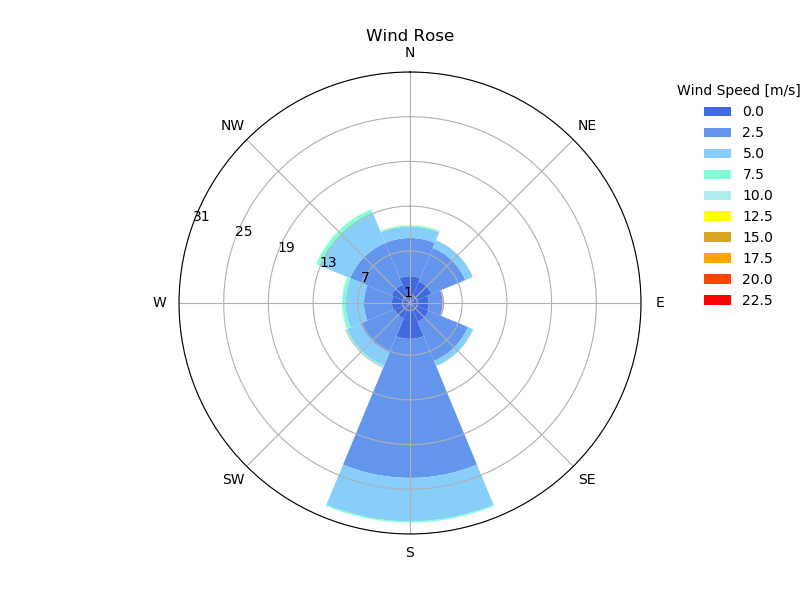
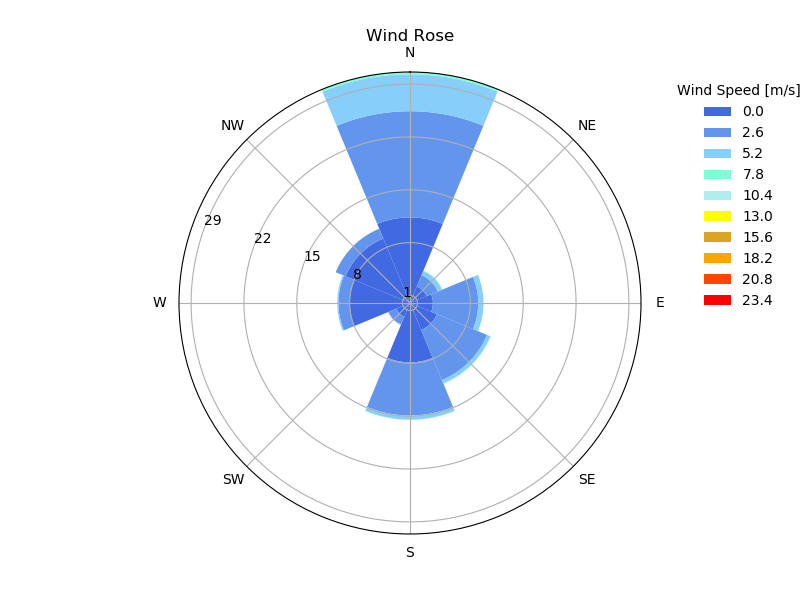
Finished Web App

diff --git a/ladybugvizzz/ladybugvizzzapp/vizzz/static/googleMap.html b/ladybugvizzz/ladybugvizzzapp/vizzz/static/googleMap.html
@@ -6,7 +6,7 @@
 <script type="text/javascript" src="https://maps.googleapis.com/maps/api/js?libraries=visualization&sensor=true_or_false"></script>
 <script type="text/javascript">
 	function initialize() {
-		var centerlatlng = new google.maps.LatLng(43.106496, -73.599382);
+		var centerlatlng = new google.maps.LatLng(1.290475, 103.852036);
 		var myOptions = {
 			zoom: 9,
 			center: centerlatlng,
@@ -15,42 +15,42 @@
 		var map = new google.maps.Map(document.getElementById("map_canvas"), myOptions);
 
 var coords = [
-new google.maps.LatLng(43.133443, -73.599382),
-new google.maps.LatLng(43.133033, -73.605794),
-new google.maps.LatLng(43.131817, -73.612011),
-new google.maps.LatLng(43.129831, -73.617844),
-new google.maps.LatLng(43.127136, -73.623115),
-new google.maps.LatLng(43.123814, -73.627664),
-new google.maps.LatLng(43.119965, -73.631353),
-new google.maps.LatLng(43.115707, -73.634070),
-new google.maps.LatLng(43.111170, -73.635733),
-new google.maps.LatLng(43.106490, -73.636291),
-new google.maps.LatLng(43.101811, -73.635728),
-new google.maps.LatLng(43.097275, -73.634060),
-new google.maps.LatLng(43.093019, -73.631339),
-new google.maps.LatLng(43.089172, -73.627648),
-new google.maps.LatLng(43.085852, -73.623099),
-new google.maps.LatLng(43.083158, -73.617830),
-new google.maps.LatLng(43.081174, -73.612001),
-new google.maps.LatLng(43.079959, -73.605789),
-new google.maps.LatLng(43.079550, -73.599382),
-new google.maps.LatLng(43.079959, -73.592976),
-new google.maps.LatLng(43.081174, -73.586764),
-new google.maps.LatLng(43.083158, -73.580935),
-new google.maps.LatLng(43.085852, -73.575666),
-new google.maps.LatLng(43.089172, -73.571116),
-new google.maps.LatLng(43.093019, -73.567425),
-new google.maps.LatLng(43.097275, -73.564704),
-new google.maps.LatLng(43.101811, -73.563037),
-new google.maps.LatLng(43.106490, -73.562473),
-new google.maps.LatLng(43.111170, -73.563031),
-new google.maps.LatLng(43.115707, -73.564694),
-new google.maps.LatLng(43.119965, -73.567411),
-new google.maps.LatLng(43.123814, -73.571100),
-new google.maps.LatLng(43.127136, -73.575650),
-new google.maps.LatLng(43.129831, -73.580921),
-new google.maps.LatLng(43.131817, -73.586753),
-new google.maps.LatLng(43.133033, -73.592970),
+new google.maps.LatLng(1.317422, 103.852036),
+new google.maps.LatLng(1.317013, 103.847355),
+new google.maps.LatLng(1.315797, 103.842817),
+new google.maps.LatLng(1.313812, 103.838559),
+new google.maps.LatLng(1.311118, 103.834710),
+new google.maps.LatLng(1.307796, 103.831388),
+new google.maps.LatLng(1.303949, 103.828693),
+new google.maps.LatLng(1.299691, 103.826708),
+new google.maps.LatLng(1.295154, 103.825492),
+new google.maps.LatLng(1.290475, 103.825082),
+new google.maps.LatLng(1.285796, 103.825492),
+new google.maps.LatLng(1.281259, 103.826708),
+new google.maps.LatLng(1.277002, 103.828694),
+new google.maps.LatLng(1.273154, 103.831388),
+new google.maps.LatLng(1.269833, 103.834711),
+new google.maps.LatLng(1.267139, 103.838559),
+new google.maps.LatLng(1.265154, 103.842817),
+new google.maps.LatLng(1.263938, 103.847356),
+new google.maps.LatLng(1.263529, 103.852036),
+new google.maps.LatLng(1.263938, 103.856716),
+new google.maps.LatLng(1.265154, 103.861254),
+new google.maps.LatLng(1.267139, 103.865513),
+new google.maps.LatLng(1.269833, 103.869361),
+new google.maps.LatLng(1.273154, 103.872683),
+new google.maps.LatLng(1.277002, 103.875378),
+new google.maps.LatLng(1.281259, 103.877364),
+new google.maps.LatLng(1.285796, 103.878580),
+new google.maps.LatLng(1.290475, 103.878989),
+new google.maps.LatLng(1.295154, 103.878580),
+new google.maps.LatLng(1.299691, 103.877364),
+new google.maps.LatLng(1.303949, 103.875378),
+new google.maps.LatLng(1.307796, 103.872684),
+new google.maps.LatLng(1.311118, 103.869361),
+new google.maps.LatLng(1.313812, 103.865513),
+new google.maps.LatLng(1.315797, 103.861255),
+new google.maps.LatLng(1.317013, 103.856716),
 ];
 
 var polygon = new google.maps.Polygon({
@@ -68,16 +68,16 @@ polygon.setMap(map);
 
 
 var heatmap_points = [
-new google.maps.LatLng(43.350000, -73.620000),
-new google.maps.LatLng(42.750000, -73.800000),
-new google.maps.LatLng(42.700000, -73.170000),
-new google.maps.LatLng(43.520000, -72.950000),
-new google.maps.LatLng(43.350000, -72.520000),
-new google.maps.LatLng(42.900000, -72.270000),
-new google.maps.LatLng(43.630000, -72.300000),
-new google.maps.LatLng(42.150000, -72.720000),
-new google.maps.LatLng(42.200000, -72.530000),
-new google.maps.LatLng(43.150000, -75.380000),
+new google.maps.LatLng(1.370000, 103.980000),
+new google.maps.LatLng(3.120000, 101.550000),
+new google.maps.LatLng(6.170000, 102.280000),
+new google.maps.LatLng(5.300000, 100.270000),
+new google.maps.LatLng(1.480000, 110.330000),
+new google.maps.LatLng(4.930000, 114.930000),
+new google.maps.LatLng(13.920000, 100.600000),
+new google.maps.LatLng(11.670000, 92.720000),
+new google.maps.LatLng(19.100000, 108.620000),
+new google.maps.LatLng(19.230000, 110.470000),
 ];
 
 var pointArray = new google.maps.MVCArray(heatmap_points);

diff --git a/ladybugvizzz/ladybugvizzzapp/vizzz/templates/index.html b/ladybugvizzz/ladybugvizzzapp/vizzz/templates/index.html
@@ -31,9 +31,13 @@
                       <input type="Submit" value="Update">
                       <br>
                       <p> {{ location }} </p>
-                      <img src="{{ heatPicUrl }}" width="90%">
-                      <img src="{{ windPicUrl }}" width="50%">
-                      <iframe src="{{ mapHTML }}" width="100%" height="600px" style="border:0px;position:relative;"></div>
+                      <img src="{{ heatPicUrl }}" class="w-100">
+                      <img src="{{ windPicUrl }}" class="w-100">
+                      <div style="display:inline-block;height:800px">
+                      <img src="{{ sunBackPicUrl }}" width="800px" style="margin-left:150px;position:absolute;">
+                      <img src="{{ sunPicUrl }}" width="800px"style="margin-left:150px;position:absolute;">
+                      </div>
+                      <iframe src="{{ mapHTML }}" class="w-100" height="600px" style="border:0px;position:relative;"></div>
 
                   </form>
                 </div>

diff --git a/ladybugvizzz/ladybugvizzzapp/vizzz/assets/getWeatherPlots.py b/ladybugvizzz/ladybugvizzzapp/vizzz/assets/getWeatherPlots.py
@@ -5,6 +5,8 @@ import matplotlib
 import numpy as np
 import matplotlib.pyplot as plt
 from getWeatherData import returnWeatherDataDict
+import ladybug.sunpath as sp
+import ladybug.analysisperiod as prd
 
 def returnWindRose(weatherDataDict,divisions=None,filepath='windrose.png'):
     """
@@ -180,6 +182,7 @@ def returnWindRose(weatherDataDict,divisions=None,filepath='windrose.png'):
     fig.set_size_inches(8,6)
     fig.savefig(filepath)
     fig.clf()
+    plt.clf()
     return filepath
 
 def returnHeatMap(weatherDataDict,filepath,dataType,dataLabel,colormap='plasma'):
@@ -204,6 +207,7 @@ def returnHeatMap(weatherDataDict,filepath,dataType,dataLabel,colormap='plasma')
     fig.set_size_inches(8,4)
     fig.savefig(filepath)
     fig.clf()
+    plt.clf()
     return filepath
 
 def returnSunPath(weatherDataDict,colormap='plasma',filepath='sunpath.png',backgroundPath='background.png'):
@@ -373,7 +377,7 @@ def returnSunPath(weatherDataDict,colormap='plasma',filepath='sunpath.png',backg
     colors3 = Y3
 
     # start generating the plot
-    fig, ax = plt.subplots()
+    ax = plt.subplot()
 
     # plot 1st graph with sun positions and curves for sunPath and anallema.
     ax.scatter(Y1, X1, c=colors1, cmap=colormap, alpha=1)
@@ -413,21 +417,13 @@ def returnSunPath(weatherDataDict,colormap='plasma',filepath='sunpath.png',backg
     ax.set(aspect=1)
     ax.axis('off')
 
-    # plot second graph for background image, hiding axes and grid.
-    figB, bx = plt.subplots()
-    bx = plt.subplot(111, projection='polar')
-    thetaB = np.linspace(0, 2 * np.pi, 1)
-    r = np.sqrt(1)
-    bx.plot(r * np.cos(thetaB), r * np.sin(thetaB))
-    bx.set_theta_zero_location("N")
-    bx.set_theta_direction(-1)
-    plt.xticks(np.radians(range(0, 360, 45)),
-               ['N', 'NE', 'E', 'SE', 'S', 'SW', 'W', 'NW'])
-    bx.grid(False)
-    bx.axes.get_yaxis().set_visible(False)
 
-    # general properties for the image saving
-    fig.set_size_inches(8, 8)
-    fig.savefig(filepath, dpi=300, transparent=True)
-    figB.set_size_inches(8, 8)
-    figB.savefig(backgroundPath, dpi=300)
+    #general properties for the image saving
+    fig1 = matplotlib.pyplot.gcf()
+    fig1.set_size_inches(8, 8)
+    fig1.savefig(filepath, dpi=300, transparent=True)
+
+
+    fig1.clf()
+    plt.clf()
+    return filepath

diff --git a/ladybugvizzz/ladybugvizzzapp/vizzz/views.py b/ladybugvizzz/ladybugvizzzapp/vizzz/views.py
@@ -58,15 +58,20 @@ class HomePageView(TemplateView):
         windRelpath = '\\static\\windrose.png'
         heatMapPath = os.getcwd() + '\\vizzz\\static\\heatmap.png'
         heatRelpath = '\\static\\heatmap.png'
+        sunPathPath = os.getcwd() + '\\vizzz\\static\\sunpath.png'
+        sunRelpath = '\\static\\sunpath.png'
+        sunPathBackPath = os.getcwd() + '\\vizzz\\static\\sunpathBack.png'
+        sunRelBackPath = '\\static\\sunpathBack.png'
         mapPath = os.getcwd() + '\\vizzz\\static\\googleMap.html'
         mapRelpath = '\\static\\googleMap.html'
 
         if currentCity != cityname:
             y = getWeatherPlots.returnWeatherDataDict(cityname, plotGoogleMapPath=mapPath)
             z = getWeatherPlots.returnWindRose(y,divisions=None,filepath=windRosePath)
+        getWeatherPlots.returnSunPath(y,colormap=legColor,filepath=sunPathPath,backgroundPath=sunPathBackPath)
         a = getWeatherPlots.returnHeatMap(y,filepath=heatMapPath,dataType=dataType,dataLabel=dataDict[dataType][0], colormap=legColor)
 
         locStr = y['location'] + ', ' + y['country'] + ', Lat: ' + str(y['latitude']) + ' , Long: '+ str(y['longitude'])
 
-        #cityPicUrl = getWeatherData.returnWeatherDataDict(cityname)
-        return render(request, 'index.html', {'form': form, 'logo' : '\\static\\logo.png', 'windPicUrl': windRelpath, 'heatPicUrl': heatRelpath, 'location': locStr, 'mapHTML' : mapRelpath})
+        return render(request, 'index.html', {'form': form, 'logo' : '\\static\\logo.png','sunPicUrl': sunRelpath,'sunBackPicUrl': sunRelBackPath,
+            'windPicUrl': windRelpath, 'heatPicUrl': heatRelpath, 'location': locStr, 'mapHTML' : mapRelpath})

diff --git a/ladybugvizzz/ladybugvizzzapp/vizzz/assets/__extractEPW.py b/ladybugvizzz/ladybugvizzzapp/vizzz/assets/__extractEPW.py
@@ -28,6 +28,10 @@ def extractEPWdataset(climateDataClass,fileDownloadDirectory=None):
     dataDict['globalHorizontalIlluminance']=list(epwObj.globalHorizontalIlluminance)
     dataDict['directNormalIlluminance'] = list(epwObj.directNormalIlluminance)
     dataDict['diffuseHorizontalIlluminance'] = list(epwObj.diffuseHorizontalIlluminance)
+    dataDict['longitude']=epwObj.location.longitude
+    dataDict['latitude'] = epwObj.location.latitude
+    dataDict['meridian'] = epwObj.location.meridian
+    dataDict['timezone'] = epwObj.location.timezone
 
 
     return dataDict
